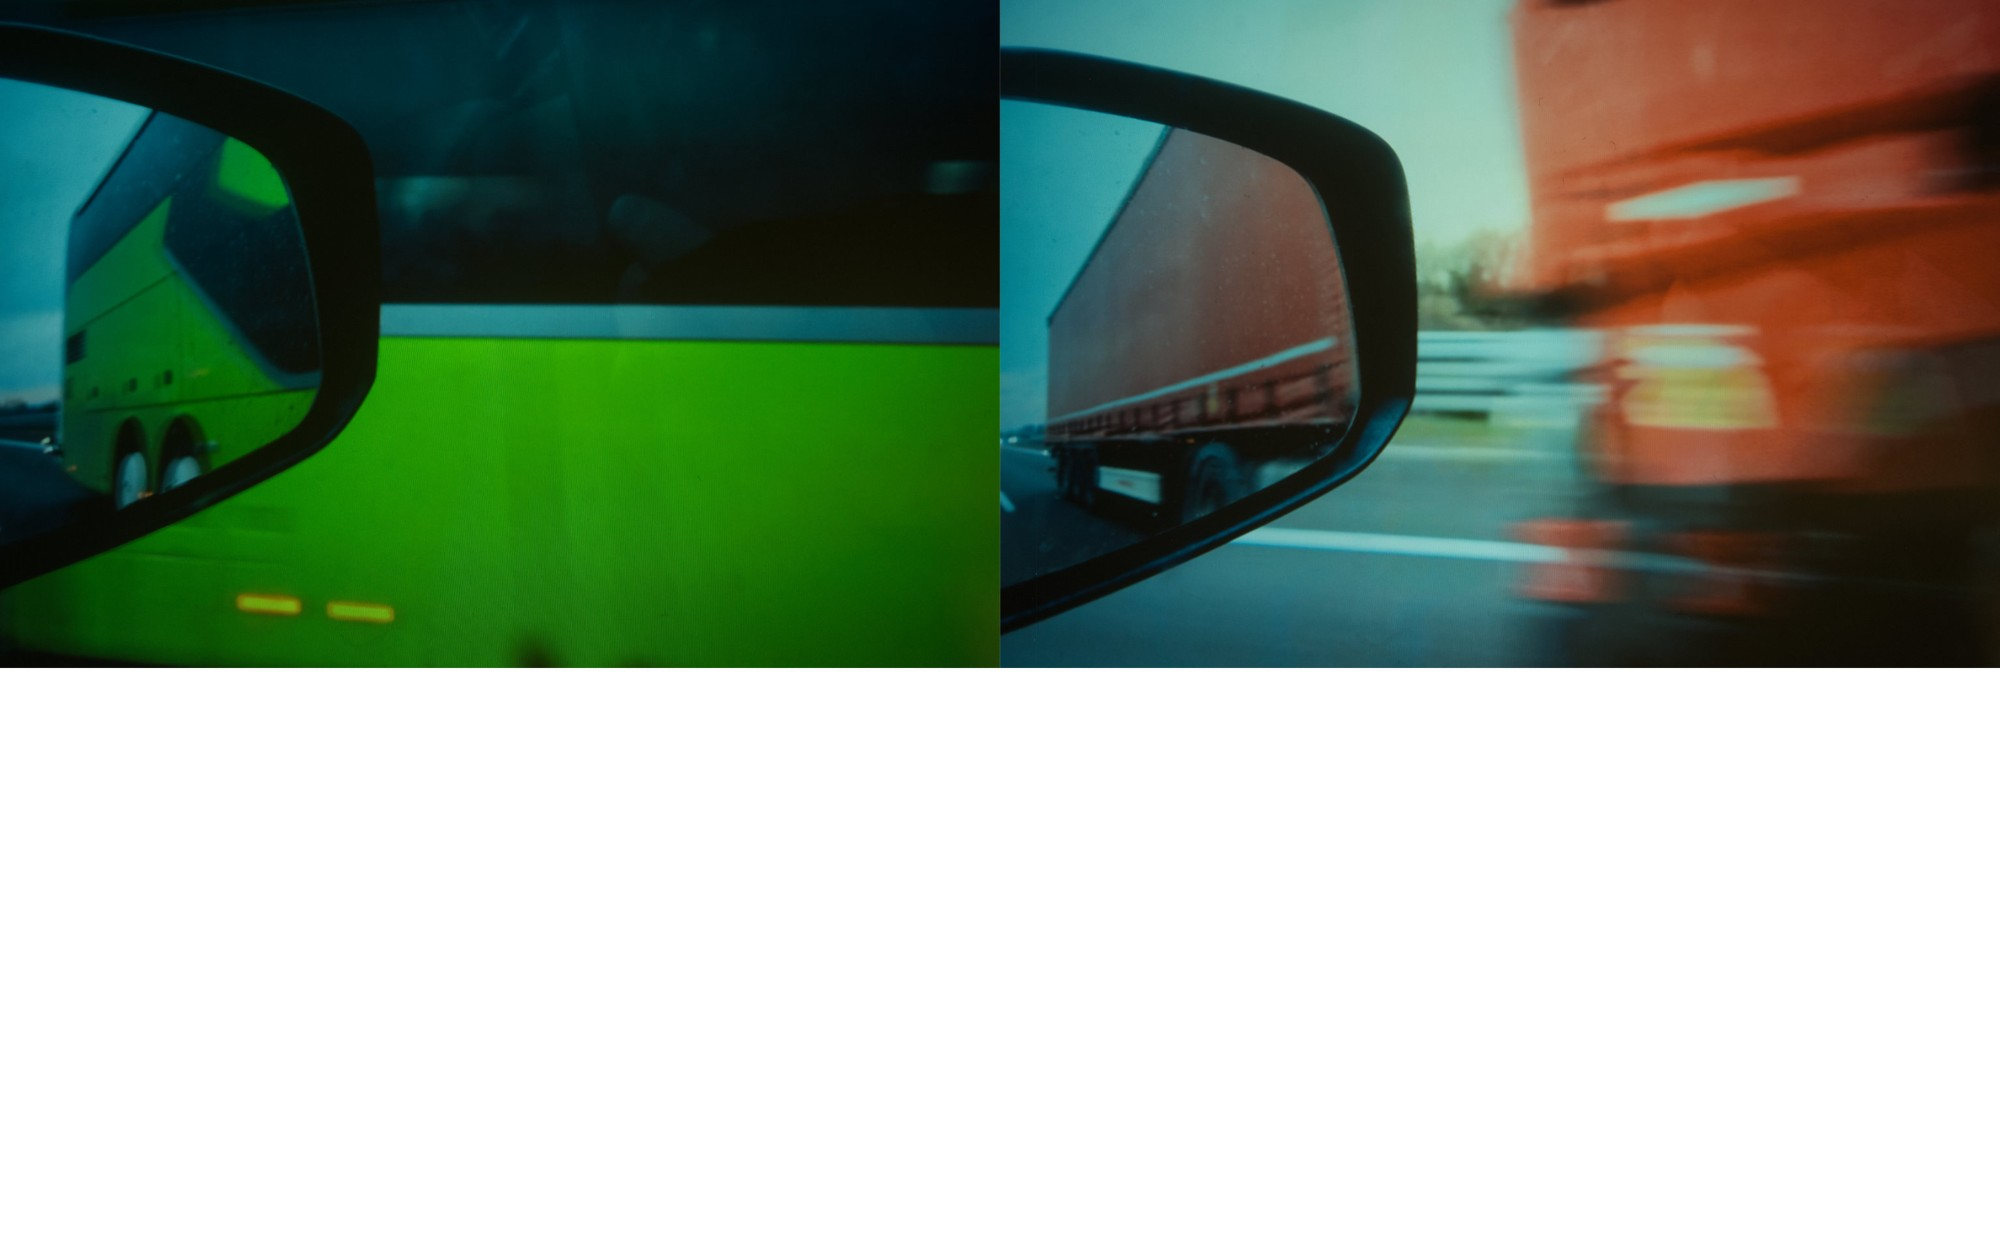
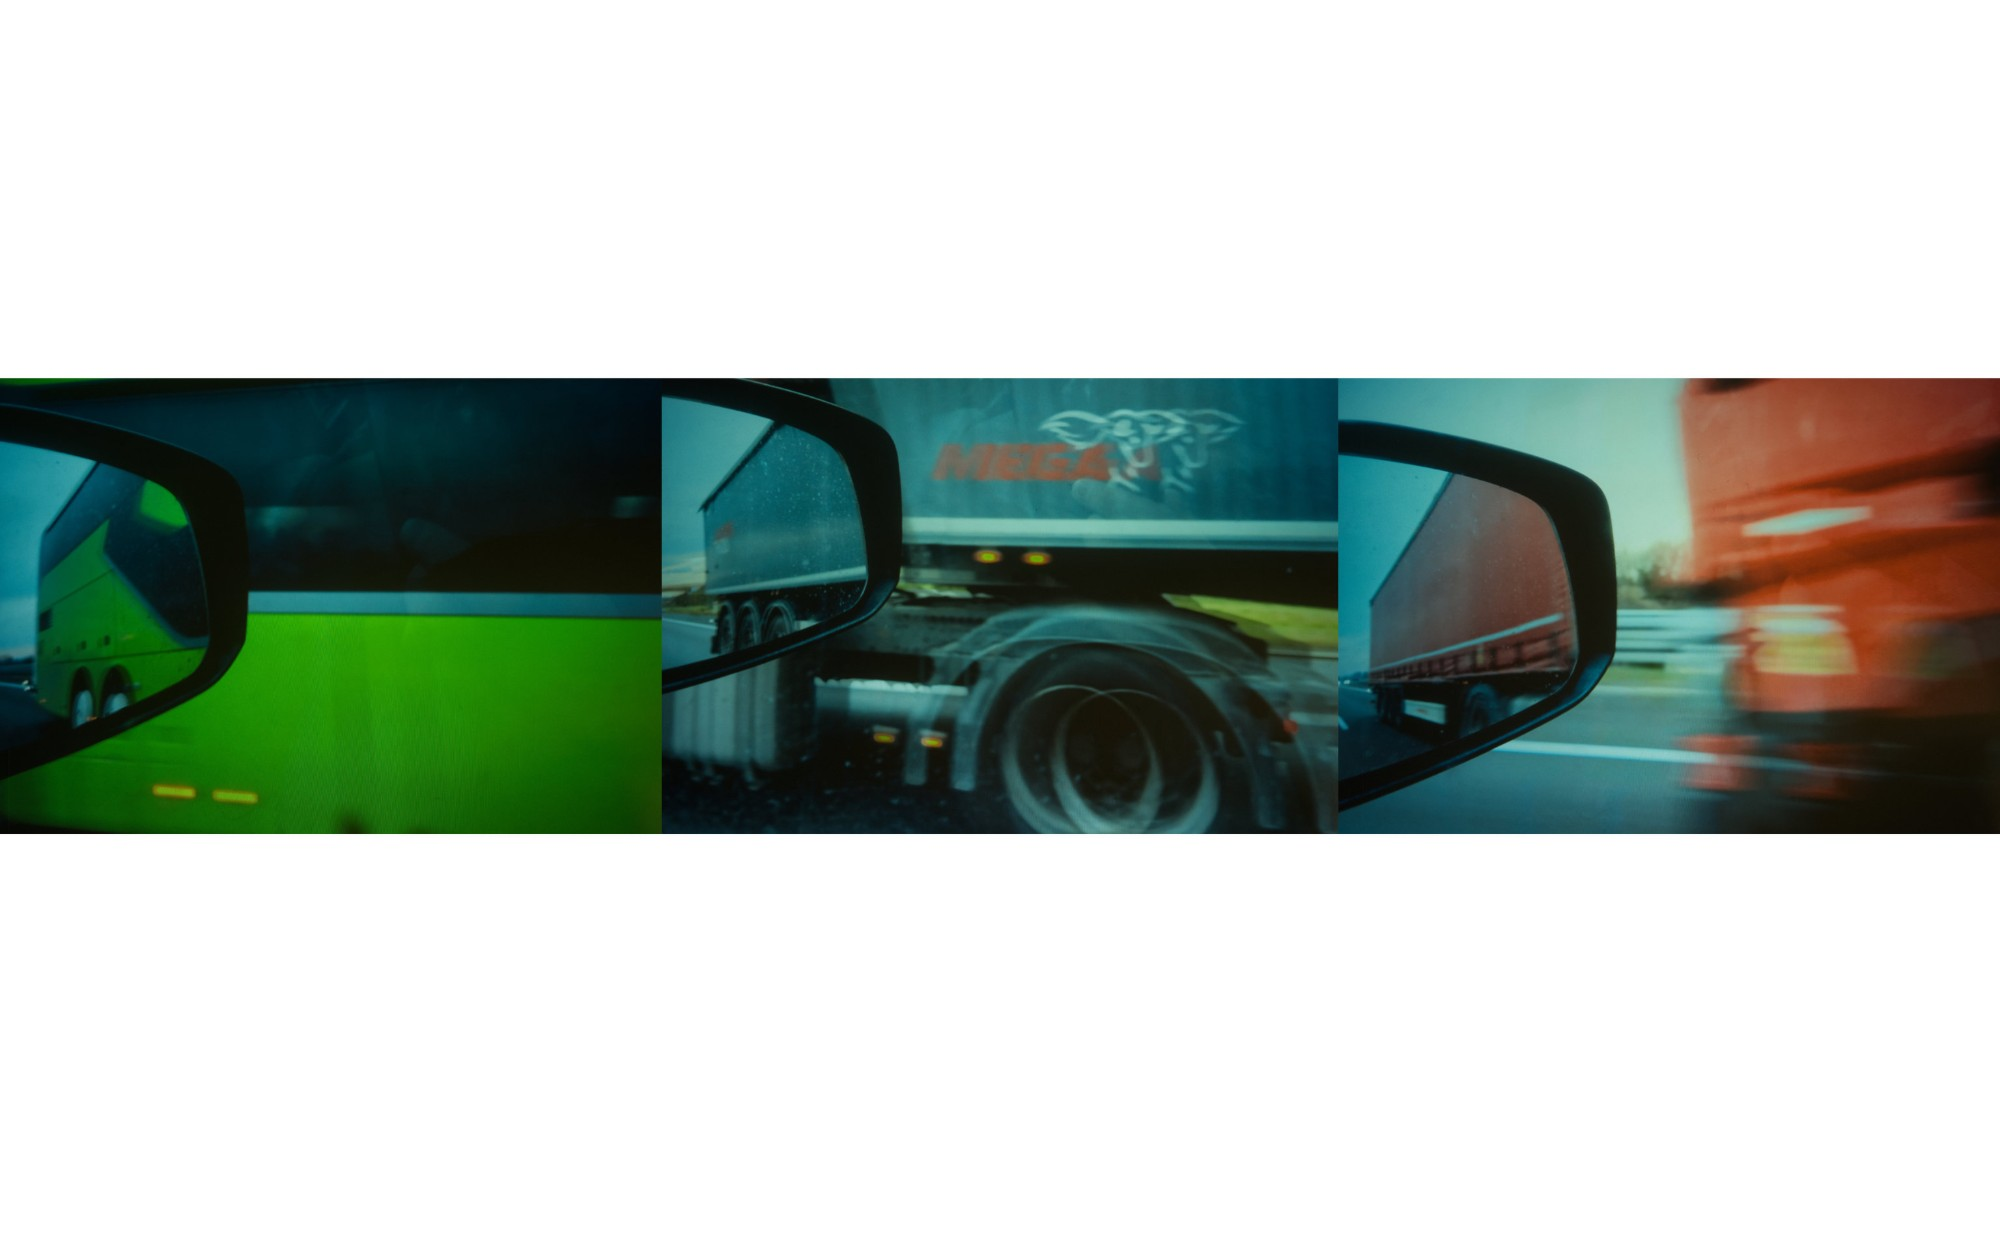
Update the mirrors spread to three frames
The spread now runs the green coach, the MEGA lorry and the red lorry
in a band across the middle of the page.

diff --git a/site-replica/index.html b/site-replica/index.html
@@ -396,7 +396,7 @@
         <figcaption>01 · dispatch and contact sheet</figcaption>
       </figure>
       <figure class="info-spread">
-        <img alt="Spread: two wing-mirror frames side by side across the top, a green coach filling the mirror and the window, and a red lorry blurred past, the page below left white"
+        <img alt="Spread: three wing-mirror frames in a band across the middle of the page, a green coach, a lorry marked MEGA and a red lorry, each passing in the mirror and blurred past the window"
              src="images/info/maquette-06.jpg" width="2000" height="1243" loading="lazy" decoding="async">
         <figcaption>02 · mirrors</figcaption>
       </figure>
